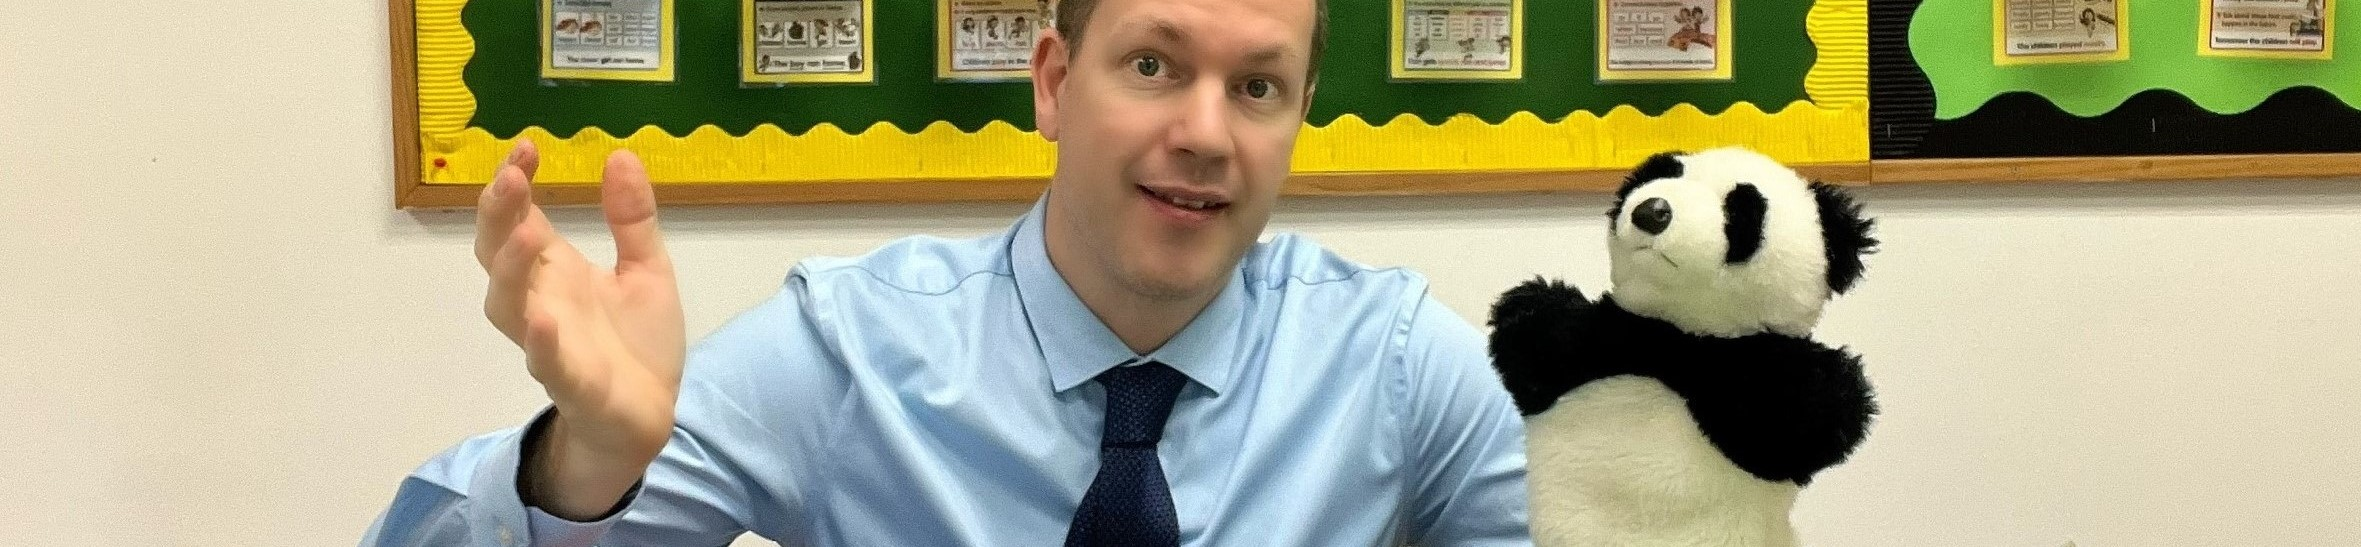
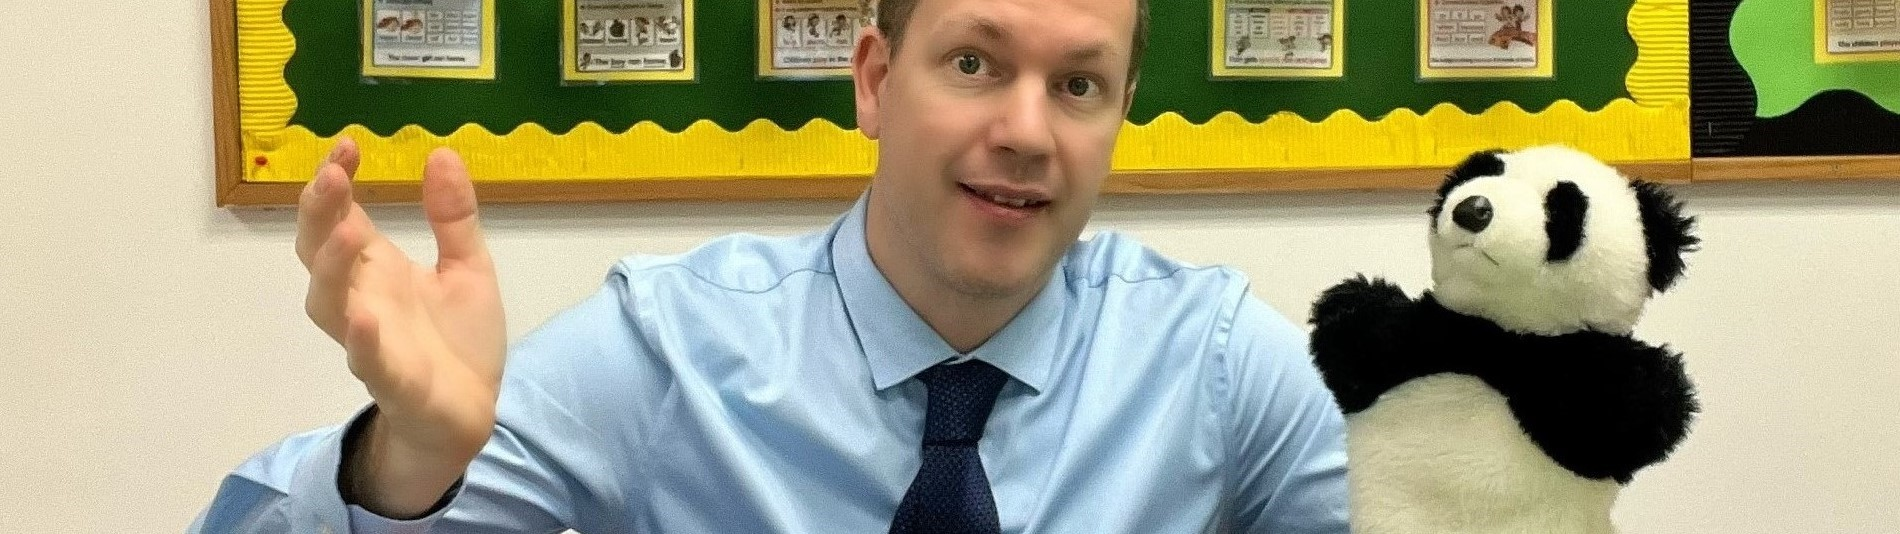
commit all

diff --git a/styles.css b/styles.css
@@ -19,9 +19,7 @@
 
   .tamepuppet1 {
     width: 100%;
-    height: auto;
-    display: block;
-    padding-top: 30px;
+    padding-top: 20px;
     padding-bottom: 10px;
   }
 
@@ -91,7 +89,7 @@
   }
 
   .tamepuppet2 img{
-    width: 38%;
+    width: 37.6%;
   }
 
   .site-images2 {
@@ -119,11 +117,11 @@
 
   .tamepuppet3 {
     width: 80%;
-    text-align: right;
+    margin-right: 20%;
   }
 
   .tamepuppet3 img{
-    width: 38%;
+    width: 37.6%;
   }
 
   
